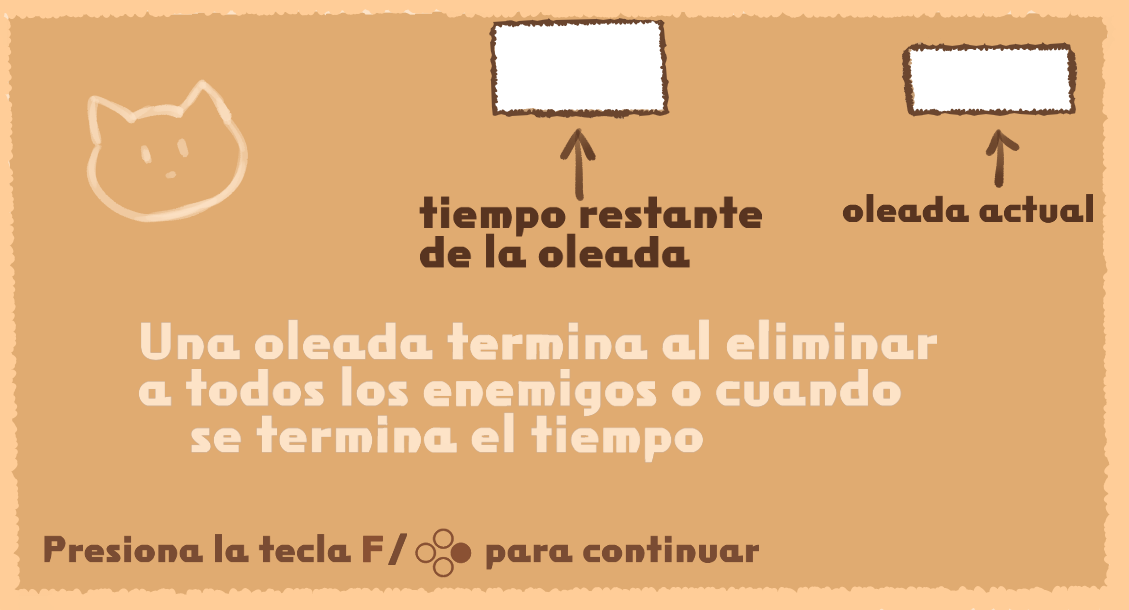
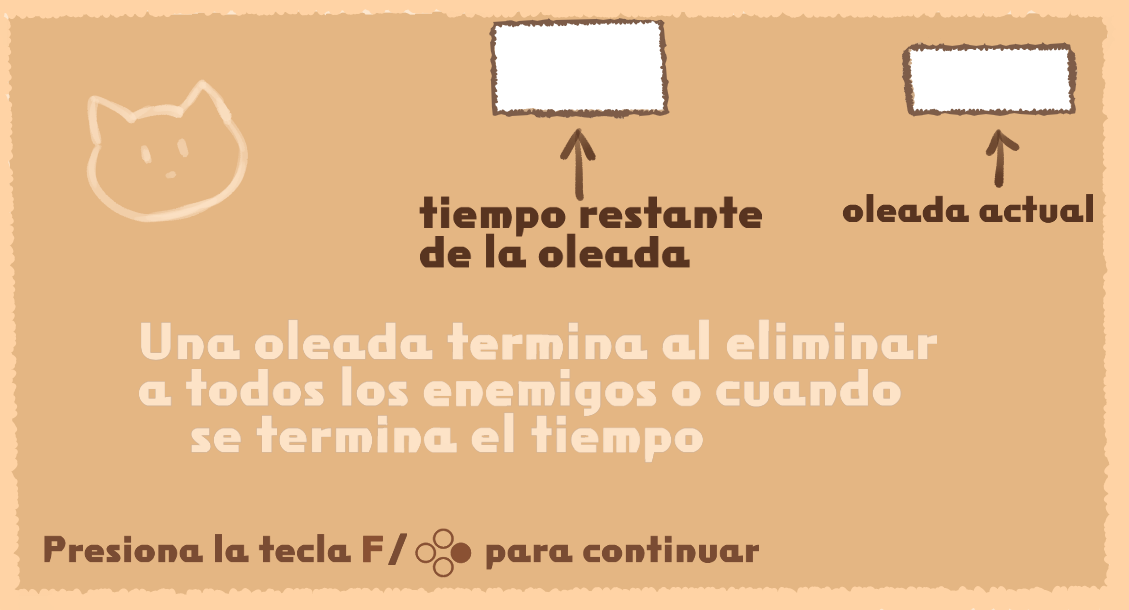
cambios tutorial

diff --git a/project/src/game/scenes/TutorialScene.cpp b/project/src/game/scenes/TutorialScene.cpp
@@ -29,11 +29,18 @@
 
 TutorialScene::TutorialScene()
 	: Scene(ecs::scene::TUTORIALSCENE),
-	_current_pop_up(0), _current_pop_up_entity(nullptr), 
-	_popup_timer(0), _tutorial_state(TutorialState::NONE), _player_health() {
+	_current_pop_up(0), _current_pop_up_entity(nullptr), _popup_timer(0),
+	_tutorial_state(TutorialState::NONE), _player_health(), _tutorial_time_seconds(0) {
 
 	event_system::event_manager::Instance()->suscribe_to_event(event_system::enemy_dead, this, &event_system::event_receiver::event_callback0);
+}
 
+TutorialScene::~TutorialScene()
+{
+	event_system::event_manager::Instance()->unsuscribe_to_event(event_system::change_deccel, this, &event_system::event_receiver::event_callback0);
+}
+
+void TutorialScene::initScene() {
 	GameScene::create_environment(ecs::scene::TUTORIALSCENE);
 	GameStructs::ButtonProperties mainMenuB = { {{ 0.025, 0.02f }, {0.1f, 0.08f}  }, 0.0f, "boton_mainmenu_tutorial" };
 	create_change_scene_button(mainMenuB, Game::MAINMENU);
@@ -43,7 +50,7 @@ TutorialScene::TutorialScene()
 			auto& input = *InputHandler::Instance();
 			return (input.isKeyDown(SDL_SCANCODE_W) || input.isKeyDown(SDL_SCANCODE_A) ||
 				input.isKeyDown(SDL_SCANCODE_S) || input.isKeyDown(SDL_SCANCODE_D))
-				||input.getRStick().getX() != 0.0f|| input.getRStick().getY() != 0.0f;
+				|| input.getRStick().getX() != 0.0f || input.getRStick().getY() != 0.0f;
 		},
 		3000,{{0.04f, 0.1f}, {0.4f, 0.4f}}
 		});
@@ -56,18 +63,22 @@ TutorialScene::TutorialScene()
 			auto player = mngr->getHandler(ecs::hdlr::TUTORIALPLAYER);
 			mngr->addComponent<PlayerHUD>(player);
 		}
-	});
+		});
 
 	_pop_ups.push_back({ "popup_use_card",
 		[]() {
 			auto& input = *InputHandler::Instance();
-			bool LT= input.isControllerButtonDown(InputHandler::CONTROLLER_BUTTONS::LT);
+			bool LT = input.isControllerButtonDown(InputHandler::CONTROLLER_BUTTONS::LT);
 			if (LT)input.consume(InputHandler::CONTROLLER_BUTTONS::LT);
 			return (input.mouseButtonDownEvent() && input.getMouseButtonState(InputHandler::RIGHT)) || LT;
 		},
 		2000,{{0.04f, 0.1f}, {0.4f, 0.4f}},
 		});
 
+	_pop_ups.push_back({ "popup_card",
+		[this]() { return has_pass_input(); },
+		200,{{0.04f, 0.1f}, {0.4f, 0.4f}},
+			});
 	_pop_ups.push_back({ "popup_reload",
 		[]() {
 			auto& input = *InputHandler::Instance();
@@ -75,55 +86,48 @@ TutorialScene::TutorialScene()
 			if (B)input.consume(InputHandler::CONTROLLER_BUTTONS::B);
 			return input.isKeyDown(SDL_SCANCODE_SPACE) || B; },
 		2000, {{0.04f, 0.1f}, {0.4f, 0.4f}}
-	});
+		});
 
 
 	_pop_ups.push_back({ "popup_attack",
-		[]() {
+		[this]() {
 			auto& input = *InputHandler::Instance();
 			bool RT = input.isControllerButtonDown(InputHandler::CONTROLLER_BUTTONS::RT);
 			if (RT)input.consume(InputHandler::CONTROLLER_BUTTONS::RT);
 			return (input.mouseButtonDownEvent() && input.getMouseButtonState(InputHandler::LEFT)) || RT;
 		},
-		3000, {{0.04f, 0.1f}, {0.4f, 0.4f}}
-	});
+		3500, {{0.04f, 0.1f}, {0.4f, 0.4f}}
+		});
 
 	_pop_ups.push_back({ "popup_enemy",
 		[this]() {
 			return _enemy_killed;
 		},
 		2000, {{0.6f, 0.6f}, {0.35f, 0.35f}},
-		[]() {GameScene::spawn_plim_plim({ 0.0f, 1.0f },ecs::scene::TUTORIALSCENE);}
-	});
+		[]() {GameScene::spawn_plim_plim({ 0.0f, 1.0f },ecs::scene::TUTORIALSCENE); }
+		});
 	_pop_ups.push_back({ "popup_oleada",
 		[this]() { return has_pass_input(); },
 		200, {{0.0f, 0.0f}, {1.0f, 1.0f}},
-		[]() {
-			auto hud = GameScene::create_hud(ecs::scene::TUTORIALSCENE);
-			Game::Instance()->get_mngr()->setHandler(ecs::hdlr::TURORIALHUD, hud);
-		}
-	});
+		[this]() {_show_tutorial_hud = true; }
+		});
 	_pop_ups.push_back({ "popup_objetos_miticos",
 		[this]() { return has_pass_input(); },
-		250, {{0.05f, 0.05f}, {0.85f, 0.85f}},
-	});
+		250, {{0.05f, 0.05f}, {0.9f, 0.9f}},
+		[this]() {_show_tutorial_hud = false; }
+		});
 	_pop_ups.push_back({ "popup_recompensa",
 		[this]() { return has_pass_input(); },
-		250, {{0.05f, 0.05f}, {0.85f, 0.85f}},
-	});
+		250, {{0.05f, 0.05f}, {0.9f, 0.9f}},
+		});
 	_pop_ups.push_back({ "popup_ganar",
 		[]() { return false; },
 		50, {{0.0f, 0.0f}, {1.0f, 1.0f}},
-	});
+		[this]() {
+			auto button = create_change_scene_button({ {{ 0.35, 0.6f }, {0.25f, 0.25f}  }, 0.0f, "enter_game" }, Game::SELECTIONMENU);
+			Game::Instance()->get_mngr()->setHandler(ecs::hdlr::TUTORIALBUTTON, button); }
+		});
 
-}	
-
-TutorialScene::~TutorialScene()
-{
-	event_system::event_manager::Instance()->unsuscribe_to_event(event_system::change_deccel, this, &event_system::event_receiver::event_callback0);
-}
-
-void TutorialScene::initScene() {
 	ecs::entity_t player = GameScene::create_player(ecs::scene::TUTORIALSCENE);
 	Game::Instance()->get_mngr()->setHandler(ecs::hdlr::TUTORIALPLAYER, player);
 
@@ -133,7 +137,7 @@ void TutorialScene::initScene() {
 	mngr->addComponent<id_component>(player);
 	mngr->addComponent<MythicComponent>(player);
 
-	std::list<Card*> cl = { new Fireball(), new Lighting(), new Minigun() };
+	std::list<Card*> cl = { new Fireball(), new Lighting()};
 	mngr->addComponent<Deck>(player, cl);
 	mngr->addComponent<KeyboardPlayerCtrl>(player);
 	mngr->addComponent<GamePadPlayerCtrl>(player);
@@ -156,20 +160,19 @@ void TutorialScene::enterScene()
 		}, *manager.getComponent<camera_component>(camera), *manager.getComponent<Transform>(player));
 
 
-	if(manager.hasComponent<PlayerHUD>(player))	manager.removeComponent<PlayerHUD>(player);
-	auto hud = manager.getHandler(ecs::hdlr::TURORIALHUD);
-	if (hud) manager.setAlive(hud,false);
+	if (manager.hasComponent<PlayerHUD>(player))	manager.removeComponent<PlayerHUD>(player);
+
 	auto play_button = manager.getHandler(ecs::hdlr::TUTORIALBUTTON);
 	if (play_button) manager.setAlive(play_button, false);
-	manager.refresh();
+
+	_enemy_killed = false;
+	_show_tutorial_hud = false;
 
 #ifdef GENERATE_LOG
 	log_writer_to_csv::Instance()->add_new_log();
 	log_writer_to_csv::Instance()->add_new_log("ENTERED TUTORIAL SCENE");
 #endif
 
-
-	_enemy_killed = false;
 }
 
 void TutorialScene::exitScene()
@@ -189,7 +192,7 @@ void TutorialScene::update(uint32_t delta_time) {
 	switch (_tutorial_state)
 	{
 	case TutorialState::NEXT_POP_UP:
-	    create_pop_up();
+		create_pop_up();
 		_popup_timer = 0;
 		_tutorial_state = _current_pop_up == _pop_ups.size() - 1 ? TutorialState::FINISHED : TutorialState::WAIT_FOR_ACTION;
 		break;
@@ -208,15 +211,47 @@ void TutorialScene::update(uint32_t delta_time) {
 		}
 		break;
 	case TutorialState::FINISHED:
-	{
-		auto button = create_change_scene_button({ {{ 0.4, 0.6f }, {0.25f, 0.25f}  }, 0.0f, "enter_game" }, Game::SELECTIONMENU);
-		Game::Instance()->get_mngr()->setHandler(ecs::hdlr::TUTORIALBUTTON, button);
 		break;
-	}
 	default:
 		break;
 	}
 
+
+}
+
+void TutorialScene::render()
+{
+	Scene::render();
+	if (_show_tutorial_hud) {
+		auto camera = Game::Instance()->get_mngr()->getComponent<camera_component>(Game::Instance()->get_mngr()->getHandler(ecs::hdlr::CAMERA));
+		rect_f32 num = rect_f32_screen_rect_from_viewport(rect_f32({ 0.85,0.1 }, { 0.07,0.05 }), camera->cam.screen);
+		SDL_Rect numtrue{
+			int(num.position.x),
+			int(num.position.y),
+			int(num.size.x),
+			int(num.size.y)
+		};
+		Texture numtex{
+			sdlutils().renderer(),
+			"01/10",
+			sdlutils().fonts().at("ARIAL16"),
+			SDL_Color(50,50,50,255) };
+		numtex.render(numtrue);
+
+		rect_f32 timer = rect_f32_screen_rect_from_viewport(rect_f32({ 0.45,0.05 }, { 0.1,0.14 }), camera->cam.screen);
+		SDL_Rect timertrue{
+			int(timer.position.x),
+			int(timer.position.y),
+			int(timer.size.x),
+			int(timer.size.y)
+		};
+		Texture timertex{
+			sdlutils().renderer(),
+			"60",
+			sdlutils().fonts().at("ARIAL16"),
+			SDL_Color(50,50,50,255) };
+		timertex.render(timertrue);
+	}
 
 }
 
@@ -268,8 +303,10 @@ ecs::entity_t TutorialScene::create_change_scene_button(const GameStructs::Butto
 		Game::Instance()->change_Scene(nextScene);
 		});
 
-	buttonComp->connectHover([buttonComp, imgComp, this]() { imgComp->_filter = true; });
-	buttonComp->connectExit([buttonComp, imgComp, this]() { imgComp->_filter = false; });
+	buttonComp->connectHover([buttonComp, imgComp, this]() {
+		imgComp->_filter = true; });
+	buttonComp->connectExit([buttonComp, imgComp, this]() {
+		imgComp->_filter = false; });
 
 	return e;
 }

diff --git a/project/src/game/scenes/TutorialScene.h b/project/src/game/scenes/TutorialScene.h
@@ -30,6 +30,7 @@ public:
 	void enterScene() override;
 	void exitScene() override;
 	void update(uint32_t delta_time) override;
+	void render() override;
 
 	void create_proyectile(const GameStructs::BulletProperties& bp, ecs::grpId_t gid) override;
 	void event_callback0(const event_system::event_receiver::Msg& m) override;
@@ -43,7 +44,8 @@ private:
 
 	uint32_t _popup_timer;
 	TutorialState _tutorial_state;
-
+	float _tutorial_time_seconds;
+	bool _show_tutorial_hud;
 	bool _enemy_killed = false;
 
 	void create_pop_up();
